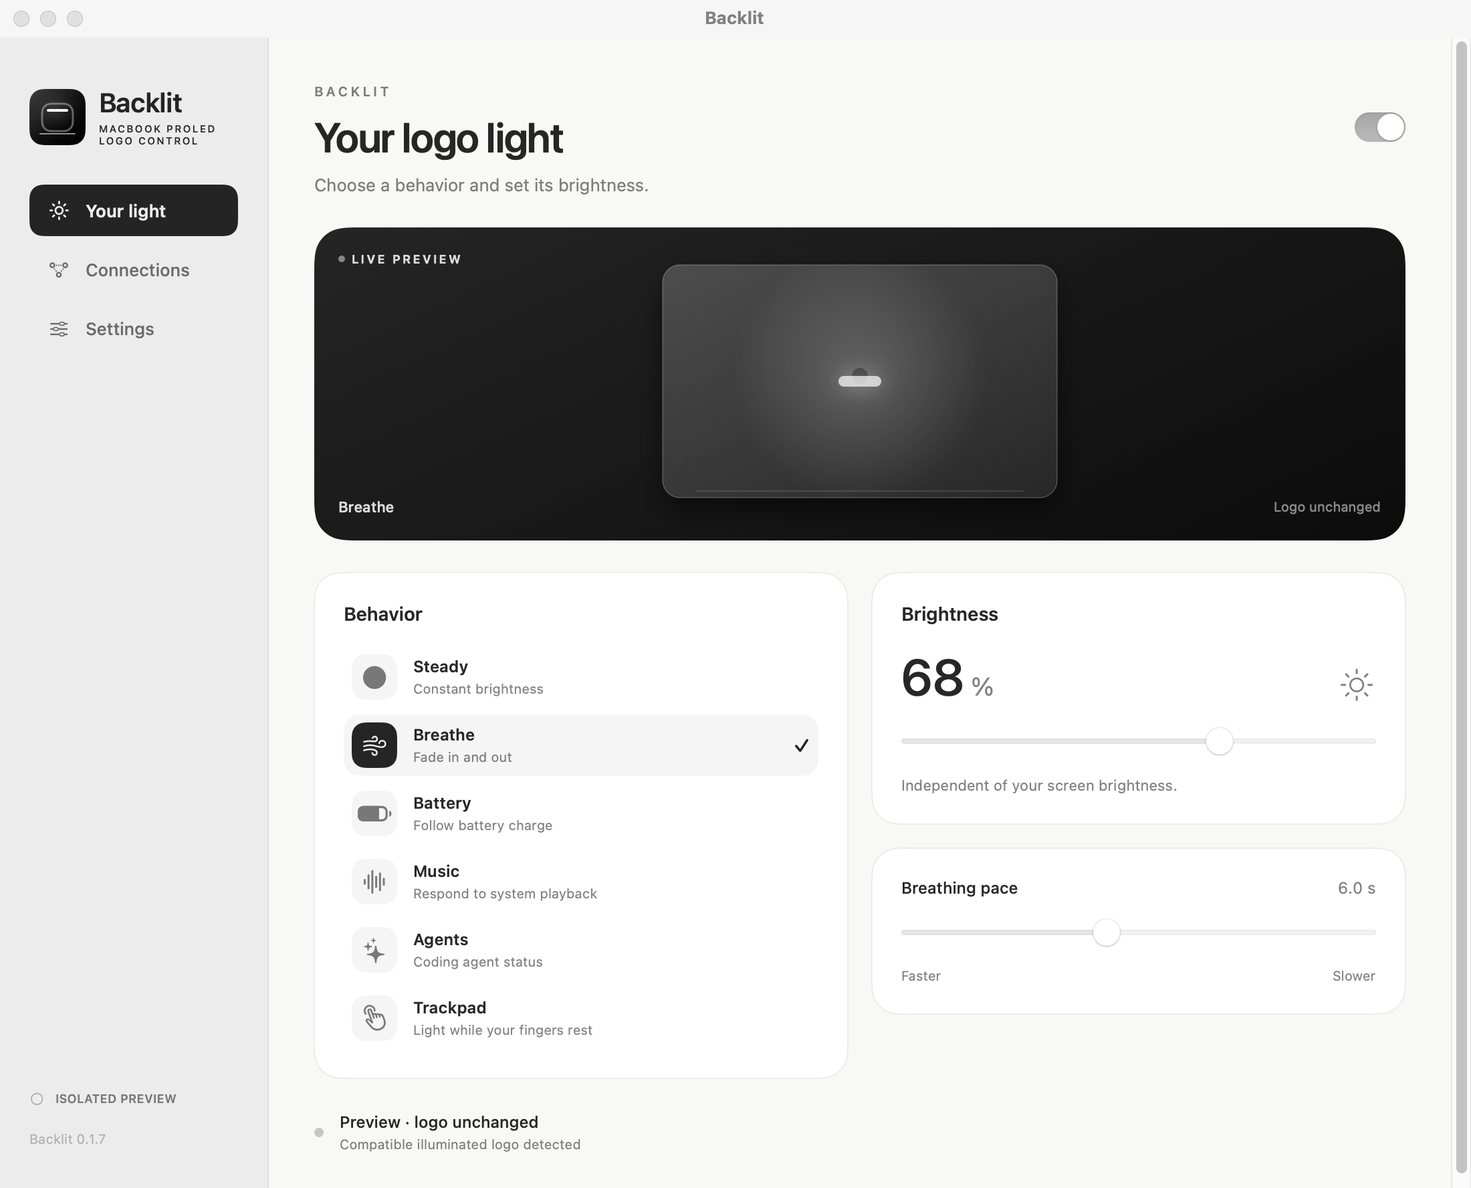
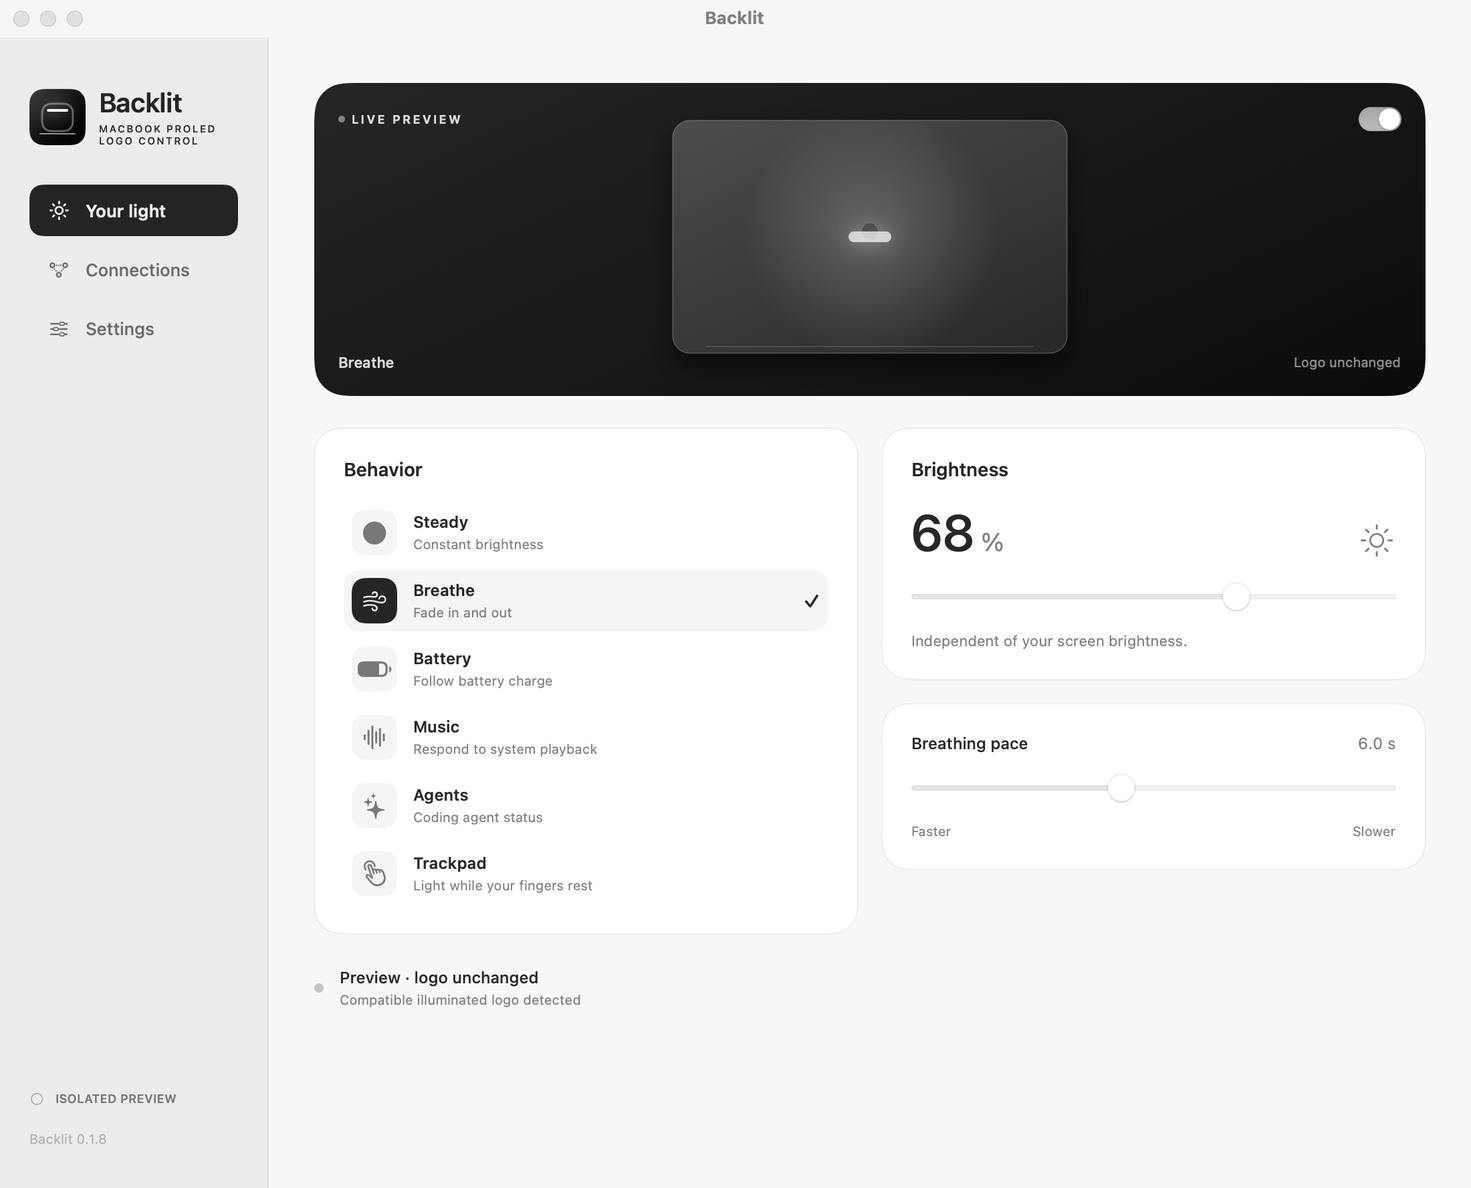
Simplify backlight controls and refresh native screenshots

diff --git a/Sources/Backlit/Views.swift b/Sources/Backlit/Views.swift
@@ -37,12 +37,19 @@ struct LogoPreview: View {
         ZStack {
             LidCanvas(level:presentation.level,compact:compact).clipShape(RoundedRectangle(cornerRadius:compact ? 18 : 24))
             VStack {
-                HStack(spacing:5) { Circle().fill(model.controlling ? Color.green : .white.opacity(0.45)).frame(width:5,height:5); Text(model.controlling ? "LOGO CONTROL" : "LIVE PREVIEW").font(.system(size:9,weight:.semibold)).tracking(1.5); Spacer() }
+                HStack(spacing:5) {
+                    Circle().fill(model.controlling ? Color.green : .white.opacity(0.45)).frame(width:5,height:5)
+                    Text(model.controlling ? "LOGO CONTROL" : "LIVE PREVIEW").font(.system(size:9,weight:.semibold)).tracking(1.5)
+                    Spacer()
+                    if !compact {
+                        Toggle(model.t("Logo on","標誌開啟"),isOn:$model.enabled).toggleStyle(.switch).labelsHidden().controlSize(.small).help("Turn logo output on or off · \(model.shortcutLabel)")
+                    }
+                }
                 Spacer()
                 HStack { Text(model.mode.title).font(.system(size:11,weight:.medium)); Spacer(); if !model.controlling {Text("Logo unchanged").font(.system(size:10)).opacity(0.6)} }
             }.foregroundStyle(.white.opacity(0.85)).padding(18)
         }.frame(height:compact ? 210 : 234)
-            .accessibilityElement(children:.ignore).accessibilityLabel("\(model.mode.title) brightness preview, \(Int(model.output*100)) percent. \(model.controlling ? "Logo control enabled" : "Preview only")")
+            .accessibilityElement(children:.contain).accessibilityLabel("\(model.mode.title) brightness preview, \(Int(model.output*100)) percent. \(model.controlling ? "Logo control enabled" : "Preview only")")
     }
 }
 
@@ -60,7 +67,7 @@ struct RootView: View {
                 Spacer()
                 VStack(alignment:.leading,spacing:8) {
                     Label(model.demo ? "ISOLATED PREVIEW" : model.controlling ? "LOGO CONNECTED" : "PREVIEW MODE",systemImage:model.controlling ? "checkmark.circle.fill" : "circle.dotted").font(.system(size:9,weight:.semibold)).foregroundStyle(.secondary)
-                    Text("Backlit 0.1.7").font(.system(size:10)).foregroundStyle(.tertiary).padding(.top,10)
+                    Text("Backlit 0.1.8").font(.system(size:10)).foregroundStyle(.tertiary).padding(.top,10)
                 }.padding(.bottom,8)
             }.padding(22).frame(width:200).background(Color(nsColor:.windowBackgroundColor))
             Divider()
@@ -100,11 +107,6 @@ struct PageHeading: View {
 struct LightPage: View {
     @ObservedObject var model: AppModel
     var body: some View {
-        HStack(alignment:.top) {
-            PageHeading(eyebrow:"BACKLIT",title:model.t("Your logo light","標誌燈光"),subtitle:model.t("Choose a behavior and set its brightness.","選擇模式並設定亮度。"))
-            Spacer()
-            Toggle(model.t("Logo on","標誌開啟"),isOn:$model.enabled).toggleStyle(.switch).labelsHidden().help("Turn logo output on or off · \(model.shortcutLabel)").padding(.top,22)
-        }
         LogoPreview(model:model)
         HStack(alignment:.top,spacing:18) {
             Surface(model.t("Behavior","選擇模式")) {
@@ -240,7 +242,7 @@ struct SettingsPage: View {
             }
         }
         Surface {
-            HStack(spacing:14) {BrandGlyph(size:52);VStack(alignment:.leading,spacing:4){Text("Backlit").font(.system(size:18,weight:.semibold));Text("Version 0.1.7 · t0nyz").font(.system(size:11)).foregroundStyle(.secondary)};Spacer();Button("Check for Updates"){NSWorkspace.shared.open(URL(string:"https://github.com/t0nyz0/Backlit/releases")!)}}
+            HStack(spacing:14) {BrandGlyph(size:52);VStack(alignment:.leading,spacing:4){Text("Backlit").font(.system(size:18,weight:.semibold));Text("Version 0.1.8 · t0nyz").font(.system(size:11)).foregroundStyle(.secondary)};Spacer();Button("Check for Updates"){NSWorkspace.shared.open(URL(string:"https://github.com/t0nyz0/Backlit/releases")!)}}
             Divider()
             HStack {Link("GitHub ↗",destination:URL(string:"https://github.com/t0nyz0/Backlit")!);Text("·").foregroundStyle(.tertiary);Link("t0nyz.com ↗",destination:URL(string:"https://t0nyz.com")!);Spacer();Link("☕ Buy me a coffee",destination:URL(string:"https://buymeacoffee.com/tonyz")!)}.font(.system(size:12))
         }
@@ -300,8 +302,8 @@ struct MenuView: View {
             Divider()
             HStack(spacing:12) {
                 MenuLidPreview(presentation:model.presentation)
-                VStack(alignment:.leading,spacing:4) {Text(model.t("Logo light","標誌燈光")).font(.system(size:13,weight:.semibold));Text(model.demo ? "Preview only" : model.status).font(.system(size:10)).foregroundStyle(.secondary).lineLimit(2).fixedSize(horizontal:false,vertical:true)}
-                Spacer();Toggle("Logo light",isOn:$model.enabled).labelsHidden().toggleStyle(.switch).controlSize(.small)
+                VStack(alignment:.leading,spacing:4) {Text(model.t("Backlight","背光")).font(.system(size:13,weight:.semibold));Text(model.demo ? "Preview only" : model.status).font(.system(size:10)).foregroundStyle(.secondary).lineLimit(2).fixedSize(horizontal:false,vertical:true)}
+                Spacer();Toggle("Backlight",isOn:$model.enabled).labelsHidden().toggleStyle(.switch).controlSize(.small)
             }
             HStack {
                 Text(model.t("Behavior","模式")).font(.system(size:12)).foregroundStyle(.secondary)

diff --git a/Sources/Backlit/AppModel.swift b/Sources/Backlit/AppModel.swift
@@ -364,7 +364,7 @@ import Combine
         catch { self.error = error.localizedDescription }
     }
     func apiState() -> [String:Any] {
-        ["id":id,"name":"Backlit","version":"0.1.7","enabled":enabled,"brightness":Int((Effects.clamp(brightness)*255).rounded()),
+        ["id":id,"name":"Backlit","version":"0.1.8","enabled":enabled,"brightness":Int((Effects.clamp(brightness)*255).rounded()),
          "effect":mode.title,"effects":availableModes.map(\.title),"battery":Int((battery*100).rounded()),
          "charging":charging,"agent_state":agents.isEmpty ? "no_recent_signals" : agentState.rawValue,
          "agent_sessions":agents.count,"hardware_supported":device.available,"controlling":controlling,

diff --git a/Sources/Backlit/main.swift b/Sources/Backlit/main.swift
@@ -172,6 +172,12 @@ if arguments.contains("--verify-hardware") {
                 for page in ["light","connections","settings"] {
                     model.selectedPage=page;model.notice=nil
                     try await Task.sleep(nanoseconds:500_000_000)
+                    if page == "light" {
+                        for _ in 0..<65 {
+                            if model.output >= 0.55 {break}
+                            try await Task.sleep(nanoseconds:100_000_000)
+                        }
+                    }
                     try capture(window.contentView!.superview!,to:directory.appendingPathComponent("\(page)-\(appearance).png"))
                 }
             }

diff --git a/docs/VALIDATION.md b/docs/VALIDATION.md
@@ -1,58 +1,40 @@
 # Backlit validation
 
-Date: November 9, 2026. Version: **0.1.7**, build 16. Early source preview. The exact audited commit and binary checksums are recorded in the release's QA report rather than a self-referential commit field in this file.
+Version: **0.1.8**, build 17. This is an early source preview. Release source metadata and artifact checksums are in `BUILD-INFO.json` and `SHA256SUMS.txt`. Test and package results are available in [GitHub Actions](https://github.com/t0nyz0/Backlit/actions).
 
-## Passed
+## Automated checks
 
-- 22 native Swift tests and five Python integration/client tests. Agent-hook regression coverage includes configuration overrides, migration of earlier Backlit hooks while preserving other commands, literal shell-path quoting, and invalid session rejection.
+- 22 native Swift tests cover bounded effects, off precedence, battery scaling, breathing cycles, audio envelopes, contact state, preference loading, device leases, recovery curves, authenticated HTTP framing, command validation, and localhost bridge traffic.
+- Agent-hook tests cover configuration overrides, preservation of unrelated commands, migration of earlier Backlit hooks, literal shell-path quoting, metadata-only storage, expiry, and invalid session rejection.
+- Five Python tests cover the client against a local HTTP fixture and the custom integration in isolated Home Assistant 2026.11.1 Core. They exercise pairing, invalid keys, duplicate devices, entities, light commands, preview availability, and unloading.
+- Packaging checks compiled binaries for local home paths, bundles the license and attribution notices, and verifies the app signature. Documentation/media checks cover local links, version metadata, PNG integrity, and image metadata.
 
-- Release packaging strips linker debug references and checks the compiled app for the local home path. The app bundles its license and attribution notices.
-- Native Swift debug/test build and optimized app packaging on Apple silicon with Xcode's macOS 27.2 SDK.
-- The installed private Core Audio tap received nonzero playback, and the owner confirmed the physical logo responds. Initial Music performance was reported slow/buggy; latency and efficiency are not established by functional capture.
-- A synthetic PCM bass signal produces a bounded audio envelope, reset clears it, non-finite samples are discarded, and denied-capture errors provide a readable recovery message.
-- Automated effects, off precedence, bounded output, battery scaling, explicit breathing cycles, attention patterns, HTTP framing/authentication, complete-command validation, real localhost bridge traffic, safe hook merging, metadata-only event storage/expiry, and recovery-curve checks.
-- Native contact state filters hover, tracks separate paths/devices, handles release, and resets between sessions. Preference loading preserves stored brightness and pace.
-- A nonblocking process lease prevents two Backlit instances from overwriting the same hardware recovery session.
-- Python client tests against a real local HTTP fixture.
-- The actual custom integration loaded in isolated Home Assistant **2026.11.1 Core**: pairing form rejects a wrong key, creates a valid entry, rejects duplicate devices, creates a light + three sensors + two binary sensors, applies brightness/effect service commands, marks preview output unavailable, and unloads.
-- A live hardware check on MacBook PROLED **Mac17,12**, M5 Pro, macOS **27.2.1 (26B8132)** acknowledged a 120-nit curve and exactly restored the previous curve. PWM duty changed during the check; the display-brightness register remained **32768** before, during, and after. This is register/service evidence, not an optical measurement.
-- The owner physically confirmed Breathe and global trackpad response. Breathe previously stayed steady because the app incorrectly applied the system Reduce Motion preference to the explicitly chosen hardware effect; that override was removed. PWM samples now vary while Reduce Motion remains enabled. Native installed-app interaction exercised mode selection, brightness, and breathing pace. Real native light/dark workspace and compact-menu screenshots were visually reviewed; the menu has an opaque readable background.
-- Whole-row hit testing was exercised in the installed app by clicking empty trailing space to select Breathe, then restoring the prior behavior.
-- Normal app Quit restores the previous curve. The installer uses the app's graceful quit path and refuses to overwrite a copy awaiting a quit/recovery decision.
+Screenshots use the production native views in isolated preview mode. They are visually reviewed; they do not measure physical light output.
 
-## Implemented, with physical or owner-permission checks still separate
+## Compatibility and verification limits
 
-| Feature | What is implemented | Remaining verification |
-| --- | --- | --- |
-| Music | Private Core Audio tap on 14.2+, audio-only ScreenCaptureKit fallback on 14.0–14.1, streaming bass envelope, intensity, dark-between-beat option; plain-language permission recovery | Owner confirmed live playback drives the physical logo. Remaining: multiple sources/devices, protected audio, latency, and efficiency |
-| Claude Code / Codex | Separate connectors, custom folders, reversible config merge, metadata extraction, event aggregation. The owner confirmed Claude Code works live | Codex live-session verification; Codex hook trust must be granted in Codex |
-| Login launch | SMAppService registration/unregistration | Owner opt-in and actual login/reboot |
-| Ambient override | Native administrator authorization, two-key backup/change/restore helper | Owner-authorized execution and physical range measurement; existing third-party limit settings were preserved |
-| Closed-lid session | Separate watchdog, Apple user-client interface, parent/lease checks, monotonic 30-minute no-display deadline, battery/thermal limits, journal and cleanup | Physical lid closure with and without external display, permission availability on other builds, timeout and heat/battery cutoffs on real hardware |
-| Leave dark after Quit | Explicit quit choice retains the zero curve and recovery record | Reboot/power-cycle persistence is not claimed; normal release/restore and the durable system `LEBacklightMode` setting are different things |
-| Trackpad | Native MultitouchSupport path callbacks filtered to trackpad usage 13/5; global contact/release confirmed by owner. Optional device-specific click callback, no polling or coordinates | Click-accent behavior, missed-release stress testing, optical latency. Global screen touch FAILED: in-window gesture recognition worked, but global device path/frame and filtered passive IOHID streams delivered no screen contacts; Screen/Both are unavailable |
-| Home Assistant at home | Packaged custom integration and authenticated opt-in bridge, tested in isolated Core | Pairing to the owner's existing home instance and its actual LAN policy |
+| Feature | Remaining checks |
+| --- | --- |
+| Hardware control | Other hardware and operating-system variants; optical brightness and latency. Private interfaces may change. Service readback is not an optical measurement. |
+| Music | Multiple playback sources/devices, protected audio, latency, and sustained resource use. Core Audio is used on macOS 14.2+; macOS 14.0–14.1 uses an audio-only ScreenCaptureKit fallback. |
+| Coding agents | Codex live-session compatibility; hook review/trust must be granted in Codex. |
+| Login launch | Actual login/reboot behavior after opt-in. |
+| Ambient override | Administrator-authorized execution and physical brightness range. |
+| Closed-lid operation | Physical closure with and without an external display, permissions, timeout, and thermal/battery cutoffs. |
+| Quit and recovery | Normal shutdown requests restoration. Force-killing the app and watchdog is a separate recovery case. Reboot persistence of a deliberately retained dark state is not claimed. |
+| Trackpad | Click accents, missed-release stress, and optical latency. Global screen touch is unsupported and is not offered. |
+| Home Assistant | Pairing with an existing installation and its LAN policy. |
 
-## Efficiency policy
+## Efficiency design
 
-The effect engine computes bounded scalar output. Steady, Battery, Trackpad, off, and paused states use one-second housekeeping rather than a high-frequency animation timer. Breathing and active musical/agent effects use a capped 20 Hz update loop. Preview publication is capped at 10 Hz and isolated from the full workspace's observable state; native windows do not need to repaint all controls for each effect frame.
+Steady, Battery, Trackpad, off, and paused states use one-second housekeeping. Animated effects use a capped 20 Hz loop; preview publication is capped at 10 Hz. Hidden previews do not keep redrawing. Competing-controller detection uses launch/quit notifications rather than repeated application enumeration. Unchanged battery and agent values are not republished.
 
-Trackpad adds callbacks only while selected and enabled. It does not poll a device, inspect coordinates, scan other applications, request keyboard-monitoring access, or seize a HID device. A down/up transition requests an immediate output update; software acknowledgement timing is distinct from emitted-light latency.
+Trackpad input uses callbacks only while selected and enabled. It does not poll a device, inspect coordinates, record input, or seize a HID device. Audio is analyzed locally without recording; its envelope release is time-based and stale packets fade out. These implementation choices are not a battery-life or latency guarantee.
 
-A 10-second sample with native Trackpad selected and the window visible while the owner tested measured **1.0% of one CPU core**, with **128.2 MiB RSS**. This is a short sample, not an idle benchmark.
+## Distribution limits
 
-The animation timer runs in common run-loop modes, so dragging controls does not pause it. Competing-controller detection uses application launch/quit events instead of repeated app enumeration. Unchanged power/agent values are not republished, and hidden previews do not keep redrawing. Audio envelope release is time-based, and stale audio packets fade out.
-
-The release workflow builds ZIP/DMG/source packages and records signing status and exact source metadata. Its GitHub execution result is recorded in the release QA artifact, separately from local test evidence.
-
-CPU measurements are a short local smoke check, not a battery-life guarantee or full Instruments profile. The release QA report records measured samples and conditions. If a touch input path cannot reliably deliver native events, it must remain experimental or be omitted; no heavy monitoring fallback is part of this release.
-
-## Current limits
-
-- Private Apple interfaces may change. Older macOS, Intel, other enclosure variants, and unknown logo hardware remain unverified.
-- Lock observation includes a compatibility-sensitive session dictionary key. Sleep, display sleep, lock, lid closure, and user switching are distinct conditions.
-- Force-killing both app and watchdog is not equivalent to a clean quit. Recovery records are retained for repair; a successful compile is not proof of crash cleanup under every condition.
-- A view's glow is a calculated preview; neither it nor service readback is an optical sensor measurement.
-- English/Traditional Chinese primary controls are present; this is not a claim that every diagnostic/error string is fully translated.
-- Update checking opens GitHub Releases. No signed automatic updater is installed.
-- The app is ad-hoc signed, not Developer ID signed/notarized. Source-preview release does not imply broad binary-distribution readiness.
+- The binary targets Apple silicon and macOS 14+. This does not establish support for every Mac or macOS release.
+- The app is ad-hoc signed, not Developer ID signed or notarized.
+- Lock observation uses a compatibility-sensitive session key. Sleep, display sleep, lock, lid closure, and user switching are distinct conditions.
+- Update checking opens GitHub Releases; there is no automatic updater.
+- English and Traditional Chinese primary controls are available; some diagnostics remain English.

diff --git a/README.md b/README.md
@@ -2,7 +2,7 @@
 <h1 align="center">Backlit</h1>
 <p align="center">MacBook PROLED logo light control for macOS.</p>
 <p align="center">
-<img src="https://img.shields.io/badge/source-v0.1.7-9a7400?style=flat" alt="Source v0.1.7">
+<img src="https://img.shields.io/badge/source-v0.1.8-9a7400?style=flat" alt="Source v0.1.8">
 <img src="https://img.shields.io/badge/local_tests-27_passing-2d6085?style=flat" alt="27 local tests passing">
 <img src="https://img.shields.io/badge/local_build-verified-55565f?style=flat" alt="Local build verified">
 <img src="https://img.shields.io/badge/macOS-14.0_target-55565f?style=flat" alt="macOS 14.0 target">
@@ -42,14 +42,17 @@ Launch connects compatible hardware automatically. Quit restores the previous lo
 
 ## Connections
 
-Claude Code and Codex have separate, reversible status hooks. Existing hooks are preserved. They send a session identifier and status—not prompts, code, or tool output. Codex requires hook review/trust in its settings. Claude Code has been tested live by the owner; Codex still needs a live-session test.
+Claude Code and Codex have separate, reversible status hooks. Existing hooks are preserved. They send a session identifier and status—not prompts, code, or tool output. Codex requires hook review/trust in its settings. Codex live-session compatibility remains unverified.
 
 An optional [Home Assistant integration](docs/HOME-ASSISTANT.md) exposes a light and status sensors over a local, authenticated connection. It is off by default.
 
 <details>
 <summary>Connections screenshot</summary>
 
-<img src="docs/media/connections-light.png" alt="Backlit Connections with agent connectors and optional Home Assistant setup">
+<picture>
+  <source media="(prefers-color-scheme: dark)" srcset="docs/media/connections-dark.png">
+  <img src="docs/media/connections-light.png" alt="Backlit Connections with agent connectors and optional Home Assistant setup">
+</picture>
 
 </details>
 
@@ -64,7 +67,7 @@ An optional [Home Assistant integration](docs/HOME-ASSISTANT.md) exposes a light
 
 Download the Apple silicon ZIP or DMG from [Releases](https://github.com/t0nyz0/Backlit/releases). Quit any running Backlit, then put the new app in **Applications**. This early release is **ad-hoc signed, not Developer ID signed or notarized**.
 
-A physically illuminated, independently controlled logo is required. The current hardware test is a MacBook PROLED `Mac17,12` with M5 Pro on macOS 27.2.1. The macOS 14 deployment target is not a claim that every older Mac/OS is supported. Unsupported hardware can use preview mode.
+A physically illuminated, independently controlled logo is required. The macOS 14 deployment target is not a claim that every older Mac/OS is supported. Unsupported hardware can use preview mode.
 
 Music starts only after you enable system audio and macOS permits it. On macOS 14.2+, a private Core Audio tap captures playback without display/window capture or microphone input. No audio is saved or uploaded.
 

diff --git a/docs/RELEASE.md b/docs/RELEASE.md
@@ -4,4 +4,4 @@ Includes Steady, Breathe, Battery, Music, Agents, Trackpad behavior, a compact m
 
 The ZIP and drag-to-Applications DMG are compiled on Apple silicon. The source package is an allowlisted snapshot without private research or Git history. BUILD-INFO.json records the exact source commit and signing status; SHA256SUMS.txt covers the packages.
 
-This preview is ad-hoc signed. It is not Developer ID signed or notarized. Global screen touch is unavailable. Music and Claude Code have been confirmed live. Codex, login, administrator brightness overrides, closed-lid behavior, click accents, and optical latency retain separate verification gates. See docs/VALIDATION.md in the source package.
+This preview is ad-hoc signed. It is not Developer ID signed or notarized. Global screen touch is unavailable. Codex, login, administrator brightness overrides, closed-lid behavior, click accents, and optical latency retain separate verification gates. See docs/VALIDATION.md in the source package.
